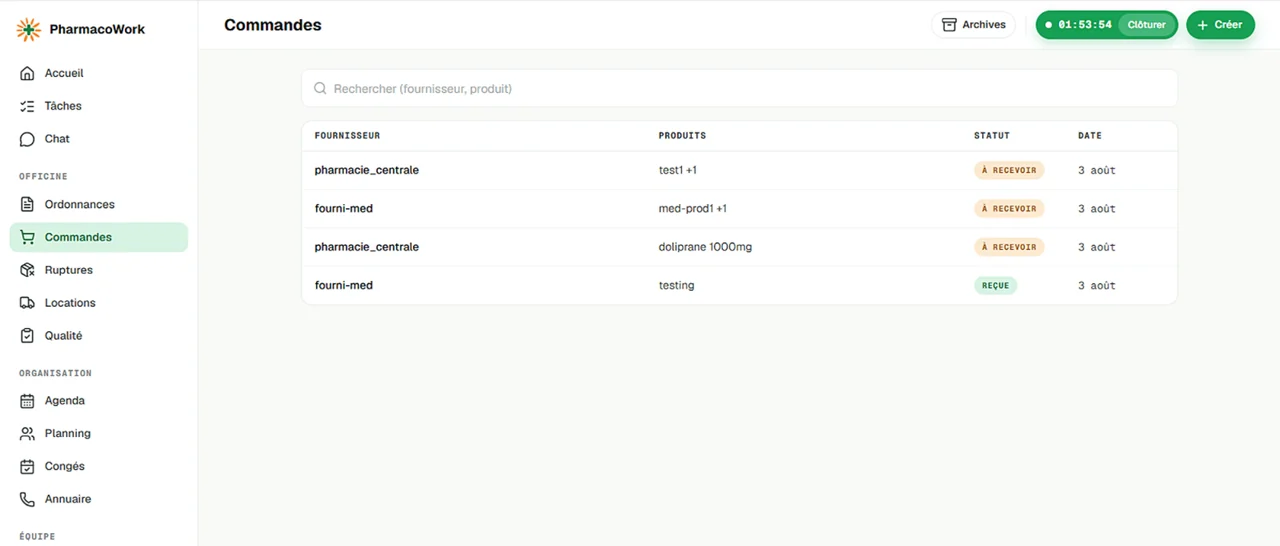
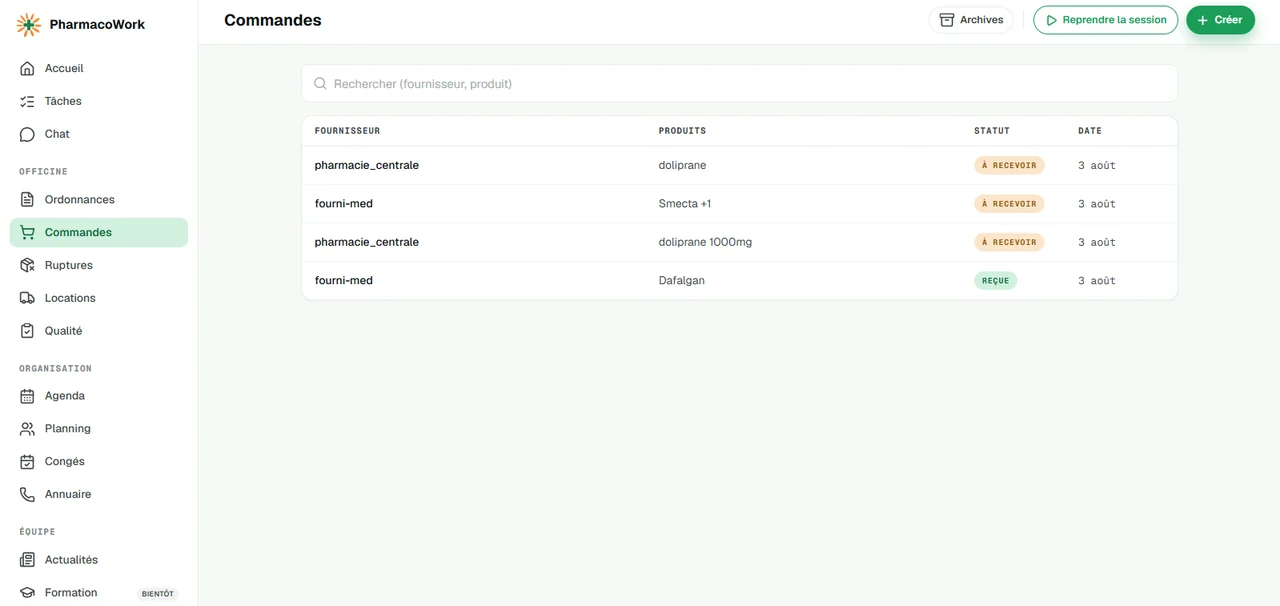
Remplace la capture des commandes par une version aux vrais libelles
L ancienne portait des restes de base de test — test1, testing, med-prod1.
La nouvelle montre des presentations reelles : doliprane, Smecta, Dafalgan.
La reserve laissee dans le brief du slot tombe.

diff --git a/lib/screens.ts b/lib/screens.ts
@@ -178,9 +178,6 @@ export const screens = {
       src: "/screens/desktop/commandes.webp",
       variant: "desktop",
       alt: "Commandes fournisseurs sur ordinateur : le fournisseur, les produits commandés, l'état de réception et la date.",
-      /* ⚠ La capture livrée porte des libellés de test — « test1 », « testing »,
-         « med-prod1 ». Lisible, mais ça se voit. À rejouer avec de vrais noms
-         de présentations quand l'occasion se présente. */
       brief:
         "Commandes en cours sur ordinateur, avec une date de livraison attendue et de vrais libellés produit.",
     },
